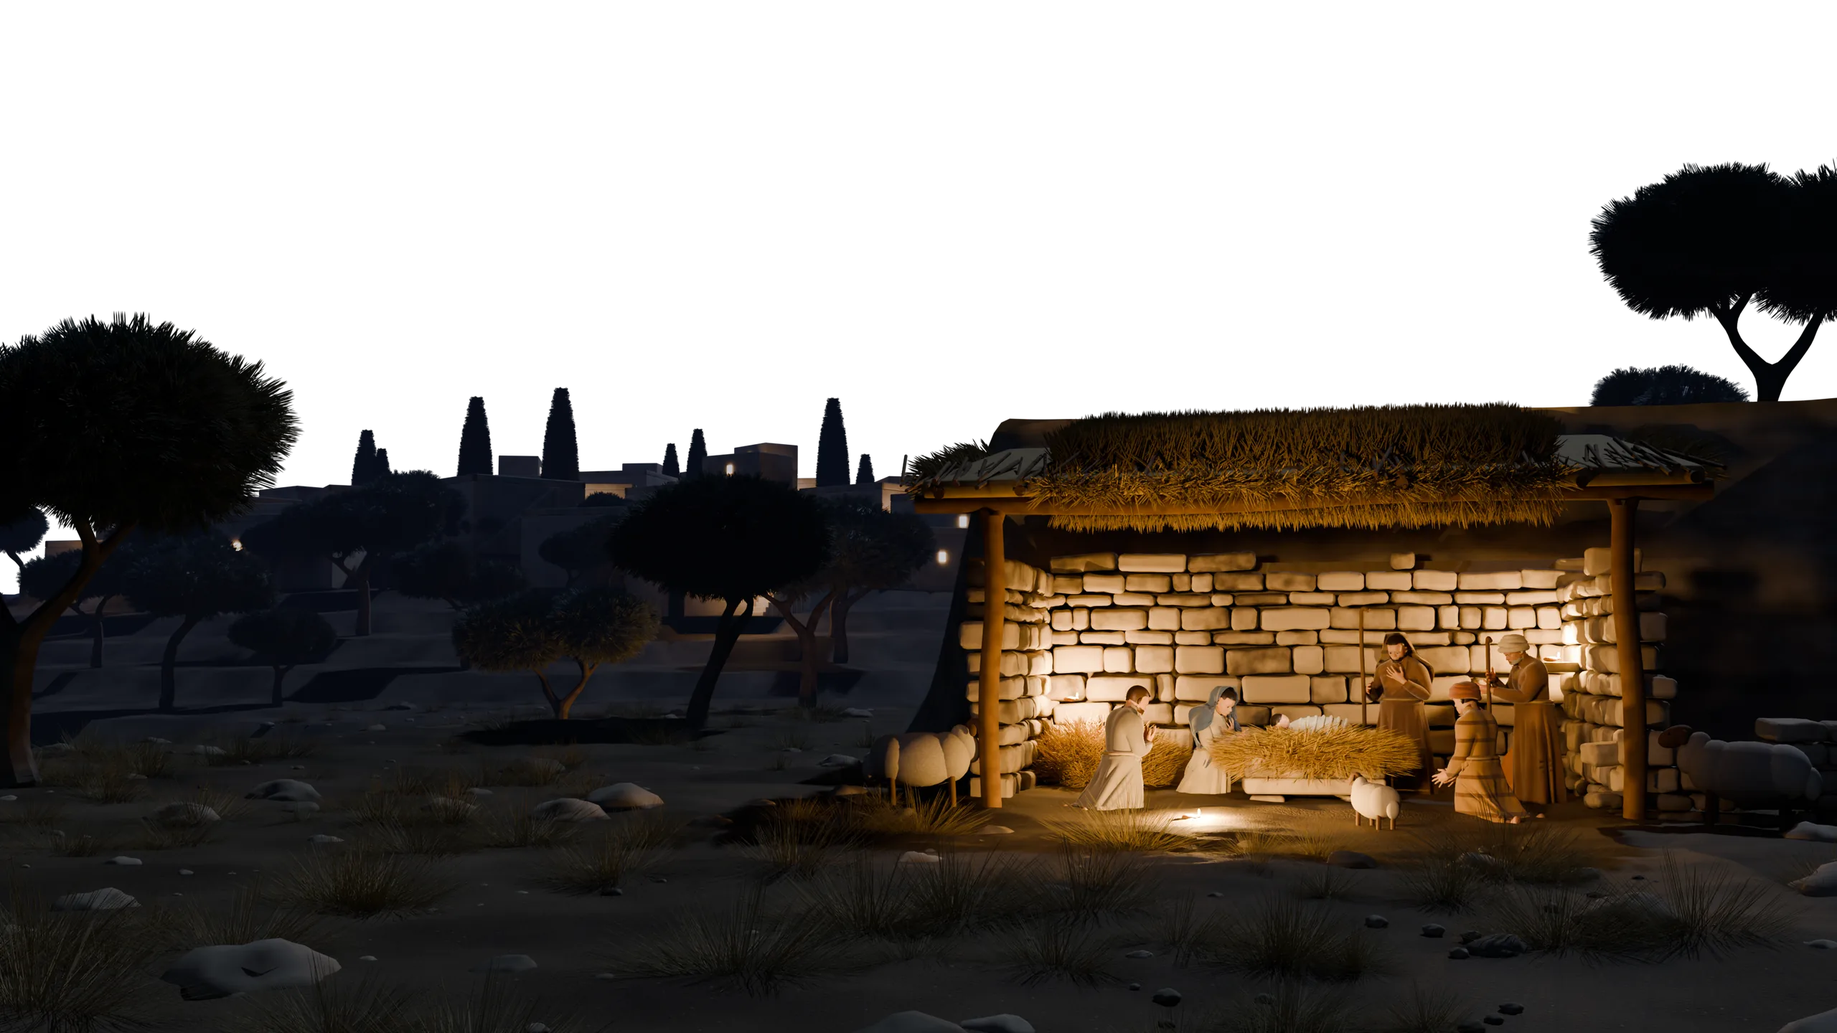
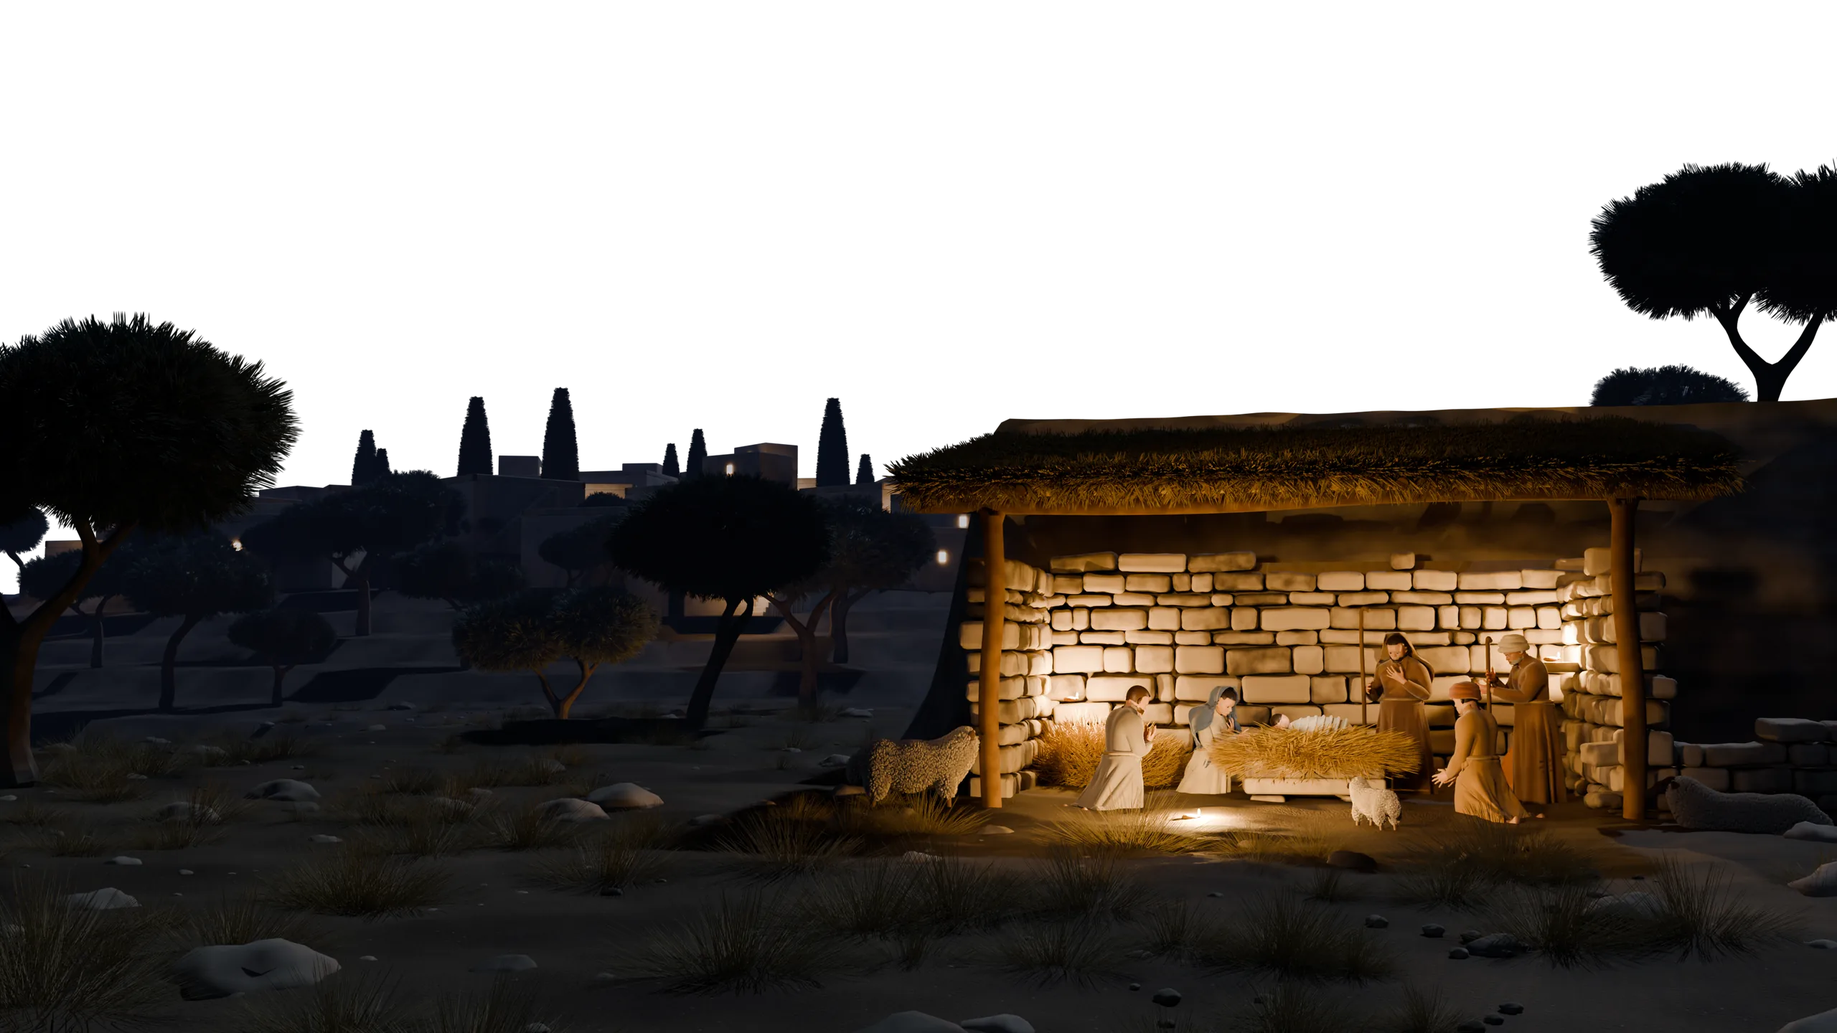
Nativity scene: real sheep with a fleece, a fully thatched roof, plain tunic for the boy
Sheep are remodelled in art/animals.py: blended body volumes, a proper head
with drooping ears, tapered legs and hooves, and a fleece of fine crimped,
clumped fibres. The shelter's roof is thatched over its whole area with reeds
laid down the slope and a fringe on every edge (before, only the middle was
covered). The boy's tunic loses its bold horizontal stripes.

diff --git a/art/animals.py b/art/animals.py
@@ -1,0 +1,225 @@
+"""Animals for the Nativity in countdown.py: Awassi sheep, the old fat-tailed breed of the region.
+
+Each sheep is modelled as a body (blended volumes for barrel, chest, rump, neck, the muscle at the
+top of each leg, and the broad tail), a separate head with a long convex nose and drooping ears,
+slim lower legs with hooves, and a real fleece: tens of thousands of fine, crimped fibres growing
+from the body, clumped into locks. Face and legs are brown and short-haired, as on the breed.
+
+Run on its own for a close look in plain light:
+    Blender -b --factory-startup -P art/animals.py -- art/build
+"""
+import os
+import random
+import sys
+
+sys.path.insert(0, os.path.dirname(os.path.abspath(__file__)))
+from common import *  # noqa: E402,F403
+
+
+def blended(name, parts, resolution=0.022):
+    """A smooth organic form from overlapping ellipsoids: (centre, radii) pairs that melt together."""
+    mb = bpy.data.metaballs.new(name)
+    mb.resolution = resolution
+    mb.render_resolution = resolution
+    mb.threshold = 0.6
+    for centre, radii in parts:
+        el = mb.elements.new(type="ELLIPSOID")
+        el.co = centre
+        el.radius = 2.0
+        el.size_x, el.size_y, el.size_z = (r / 2.0 * 1.28 for r in radii)
+        el.stiffness = 2.0
+    o = bpy.data.objects.new(name, mb)
+    bpy.context.collection.objects.link(o)
+    bpy.ops.object.select_all(action="DESELECT")
+    o.select_set(True)
+    bpy.context.view_layer.objects.active = o
+    bpy.ops.object.convert(target="MESH")
+    o = bpy.context.object
+    o.name = name
+    sm = o.modifiers.new("Smooth", "SMOOTH")
+    sm.factor = 0.8
+    sm.iterations = 8
+    for p in o.data.polygons:
+        p.use_smooth = True
+    xs = [v.co.x for v in o.data.vertices]
+    zs = [v.co.z for v in o.data.vertices]
+    print(f"[art] {name}: {len(o.data.vertices)} verts, x {min(xs):.2f}..{max(xs):.2f}, z {min(zs):.2f}..{max(zs):.2f}")
+    return o
+
+
+def fleece_material():
+    """Raw wool: cream, a little yellowed and dusty, each fibre slightly different."""
+    m = bpy.data.materials.get("Fleece") or principled("Fleece", (0.62, 0.56, 0.45), roughness=0.85, sheen=0.6)
+    if m.get("built"):
+        return m
+    nt = m.node_tree
+    info = nt.nodes.new("ShaderNodeHairInfo")
+    ramp = nt.nodes.new("ShaderNodeValToRGB")
+    ramp.color_ramp.elements[0].color = (0.33, 0.27, 0.19, 1)       # deep in the lock, and dirty
+    ramp.color_ramp.elements[1].color = (0.76, 0.7, 0.58, 1)        # the weathered tips
+    mix = nt.nodes.new("ShaderNodeMath")
+    mix.operation = "MULTIPLY_ADD"
+    mix.inputs[1].default_value = 0.3
+    nt.links.new(info.outputs["Random"], mix.inputs[0])
+    nt.links.new(info.outputs["Intercept"], mix.inputs[2])
+    nt.links.new(mix.outputs[0], ramp.inputs["Fac"])
+    nt.links.new(ramp.outputs["Color"], bsdf(m).inputs["Base Color"])
+    m["built"] = True
+    return m
+
+
+def hide_material(name, color):
+    """Short-haired hide (face, ears, legs)."""
+    m = bpy.data.materials.get(name)
+    if m:
+        return m
+    m = principled(name, color, roughness=0.7, sheen=0.5)
+    add_bump(m, scale=260.0, strength=0.25, detail=3.0)
+    return m
+
+
+def grow(obj, mat, count, length, children, thickness, crimp=0.0, clump=0.0, seed=1, spread=0.25):
+    """Fibres of a set length growing straight out of every face of `obj`; crimp, clumping and
+    a little roughness then give them the disorder of real wool or hair."""
+    if os.environ.get("ART_NOFUR"):
+        return
+    if mat.name not in [s.name for s in obj.material_slots]:
+        obj.data.materials.append(mat)
+    obj.modifiers.new("Fibres", "PARTICLE_SYSTEM")
+    ps = obj.particle_systems[-1]
+    ps.seed = seed
+    pt = ps.settings
+    pt.type = "HAIR"
+    pt.count = count
+    pt.hair_length = length
+    pt.hair_step = 5
+    pt.emit_from = "FACE"
+    pt.use_advanced_hair = False              # in this mode hair_length is the true length
+    pt.distribution = "RAND"
+    pt.child_type = "INTERPOLATED"
+    pt.rendered_child_count = children
+    pt.child_length = 1.0
+    pt.clump_factor = clump
+    pt.clump_shape = 0.2
+    pt.roughness_1 = length * 0.25 * spread
+    pt.roughness_1_size = 0.3
+    pt.roughness_2 = length * 0.12
+    pt.roughness_endpoint = length * 0.15 * spread
+    if crimp:
+        pt.kink = "CURL"
+        pt.kink_amplitude = crimp
+        pt.kink_frequency = 7.0
+    pt.root_radius = 1.0
+    pt.tip_radius = 0.45
+    pt.radius_scale = thickness
+    pt.material_slot = mat.name
+    obj.show_instancer_for_render = True
+
+
+def sheep(rng, lying=False, lamb=False):
+    """One Awassi sheep standing (or lying, legs folded under it), facing +x. Returns its root.
+    A lamb is small, leggy and short in the fleece."""
+    before = set(bpy.data.objects)
+    wool, face, hoof = fleece_material(), hide_material("SheepHide", (0.1, 0.055, 0.03)), hide_material("Hoof", (0.02, 0.016, 0.012))
+    eye = bpy.data.materials.get("SheepEyeDark") or principled("SheepEyeDark", (0.01, 0.008, 0.006), roughness=0.05, coat=1.0)
+    leg = 0.3 if not lamb else 0.37                 # lambs are all leg
+    z = 0.26 if lying else leg + 0.27               # height of the spine's centre line
+    k = 0.86 if lamb else 1.0                       # a lamb's barrel is slimmer
+
+    body = blended("SheepBody", [
+        ((0.0, 0, z), (0.36, 0.2 * k, 0.21 * k)),                   # barrel
+        ((0.0, 0, z - 0.07), (0.3, 0.18 * k, 0.16 * k)),            # belly
+        ((0.27, 0, z - 0.01), (0.19, 0.175 * k, 0.21 * k)),         # chest
+        ((0.33, 0, z + 0.06), (0.13, 0.13 * k, 0.15 * k)),          # shoulders / withers
+        ((-0.29, 0, z + 0.01), (0.2, 0.19 * k, 0.2 * k)),           # rump
+        ((0.39, 0, z + 0.1), (0.14, 0.125, 0.15)),                  # base of the neck: deep and thick
+        ((0.44, 0, z + 0.19), (0.11, 0.1, 0.11)),                   # neck
+        ((-0.47, 0, z - 0.06), (0.06, 0.075, 0.13)),                # the fat tail
+    ] + ([] if lying else [
+        ((0.28, sy * 0.105, z - 0.17), (0.07, 0.055, 0.13)) for sy in (-1, 1)        # forearm muscle
+    ] + [
+        ((-0.3, sy * 0.115, z - 0.15), (0.095, 0.06, 0.16)) for sy in (-1, 1)        # thigh
+    ]))
+    assign(body, wool)
+    grow(body, wool, 5200 if not lamb else 3800, 0.05 if not lamb else 0.028, 46, 0.0016, crimp=0.0035, clump=0.55,
+         seed=rng.randrange(999), spread=0.3)
+
+    # Head: long and narrow, with the convex "Roman" nose of the breed, carried a little low.
+    hx, hz = 0.52, z + 0.25
+    head = blended("SheepHead", [
+        ((hx, 0, hz), (0.078, 0.064, 0.07)),                        # skull
+        ((hx + 0.075, 0, hz - 0.03), (0.075, 0.05, 0.058)),         # bridge of the nose
+        ((hx + 0.145, 0, hz - 0.075), (0.055, 0.04, 0.045)),        # muzzle
+        ((hx + 0.18, 0, hz - 0.1), (0.032, 0.033, 0.03)),           # nose and lips
+        ((hx - 0.03, 0, hz - 0.04), (0.07, 0.055, 0.07)),           # jaw into the neck
+    ], resolution=0.011)
+    assign(head, face)
+    grow(head, face, 2600, 0.007, 22, 0.0012, seed=rng.randrange(999), spread=0.4)
+    for sy in (-1, 1):
+        # Ears: long, leaf-shaped, hanging down and out.
+        bpy.ops.mesh.primitive_uv_sphere_add(radius=1.0, location=(hx - 0.045, sy * 0.085, hz - 0.035), segments=20, ring_count=10)
+        ear = bpy.context.object
+        ear.name = "Ear"
+        ear.scale = (0.034, 0.011, 0.085)
+        ear.rotation_euler = (deg(sy * -38), deg(18), 0)
+        for p in ear.data.polygons:
+            p.use_smooth = True
+        assign(ear, face)
+        bpy.ops.mesh.primitive_uv_sphere_add(radius=0.0115, location=(hx + 0.055, sy * 0.049, hz - 0.002), segments=12, ring_count=8)
+        bpy.context.object.name = "SheepEye"
+        assign(bpy.context.object, eye)
+
+    def lower_leg(points):
+        cd = bpy.data.curves.new("Leg", "CURVE")
+        cd.dimensions = "3D"
+        cd.bevel_depth = 0.021
+        cd.bevel_resolution = 5
+        cd.use_fill_caps = True
+        sp = cd.splines.new("BEZIER")
+        sp.bezier_points.add(len(points) - 1)
+        for bp, (p, r) in zip(sp.bezier_points, points):
+            bp.co = p
+            bp.radius = r
+            bp.handle_left_type = bp.handle_right_type = "AUTO"
+        o = bpy.data.objects.new("Leg", cd)
+        bpy.context.collection.objects.link(o)
+        o.data.materials.append(face)
+        return o
+
+    if lying:
+        for sy in (-1, 1):                                          # forelegs folded back under the chest
+            lower_leg([((0.28, sy * 0.1, 0.08), 1.1), ((0.4, sy * 0.1, 0.04), 0.95), ((0.33, sy * 0.115, 0.03), 0.9)])
+    else:
+        for x, bend in ((0.28, 0.012), (-0.31, -0.03)):
+            for sy in (-1, 1):
+                lower_leg([((x, sy * 0.105, z - 0.2), 1.5), ((x + bend, sy * 0.105, leg * 0.55), 1.15),      # knee / hock
+                           ((x + bend * 0.2, sy * 0.105, leg * 0.2), 0.95), ((x + 0.006, sy * 0.105, 0.035), 1.05)])
+                bpy.ops.mesh.primitive_cone_add(vertices=12, radius1=0.027, radius2=0.022, depth=0.045, location=(x + 0.012, sy * 0.105, 0.02))
+                bpy.context.object.name = "Hoof"
+                assign(bpy.context.object, hoof)
+
+    root = bpy.data.objects.new("Sheep", None)
+    bpy.context.collection.objects.link(root)
+    for o in [o for o in bpy.data.objects if o not in before and o is not root]:
+        if o.parent is None:
+            o.parent = root
+    size = 0.56 if lamb else 1.0
+    root.scale = (size, size, size)
+    return root
+
+
+if __name__ == "__main__":
+    reset()
+    setup_render(res=900, samples=int(os.environ.get("ART_SAMPLES", 96)))
+    bpy.context.scene.render.resolution_x = 2200
+    rng = random.Random(4)
+    for i, (kind, yaw) in enumerate(((dict(), 20), (dict(lying=True), -25), (dict(lamb=True), 150), (dict(), -70))):
+        r = sheep(rng, **kind)
+        r.location = ((i - 1.5) * 1.35, 0, 0)
+        r.rotation_euler = (0, 0, deg(yaw))
+    shadow_catcher(size=20)
+    world(0.25, 0.27, 0.3, 1.0)
+    area_light("Key", (3, -5, 4), (0, 0, 0.5), 1400, 5, (1, 0.95, 0.9))
+    area_light("Fill", (-4, -4, 2), (0, 0, 0.5), 500, 5, (0.85, 0.9, 1))
+    camera((0, -6.6, 1.0), (0, 0, 0.45), lens=50)
+    render(os.path.join(out_dir(), "animals-test.png"))

diff --git a/art/countdown.py b/art/countdown.py
@@ -18,6 +18,7 @@ import sys
 
 sys.path.insert(0, os.path.dirname(os.path.abspath(__file__)))
 from common import *  # noqa: E402,F403
+import animals  # noqa: E402  (the sheep)
 import figures  # noqa: E402  (Mary, Joseph and the shepherds)
 
 from mathutils import Euler, Matrix, noise  # noqa: E402
@@ -525,19 +526,64 @@ def shelter(mats, rng):
         x = -W / 2 - 0.2 + (W + 0.4) * i / (n - 1) + rng.uniform(-0.08, 0.08)
         tube("Rafter", [(x, front - 0.55 - rng.uniform(0, 0.25), ROOF + 0.02), (x + rng.uniform(-0.05, 0.05), (front + back) / 2, ROOF + 0.36),
                         (x, back + 0.35, ROOF + 0.66)], 0.045, mats["timber"])
-    # Brushwood and reed laid over the rafters.
+    # Reed thatch over the whole roof: a bed of brushwood on the rafters, then reeds laid down
+    # the slope in overlapping courses, their ends hanging over the eaves on every side.
     cy, cz = (front + back) / 2 - 0.1, ROOF + 0.45
     slope = math.atan2(0.62, back - front)
-    roof = cube("Thatch", (W + 0.7, back - front + 1.0, 0.16), (0, cy, cz), bevel=0.06)
-    smooth(roof, subsurf=1)
-    turn(roof, (0, cy, cz), (slope, 0, 0))
-    assign(roof, mats["thatch"])
-    strands(roof, mats["thatch"], 34000, 0.3, seed=4, children=3, thickness=0.014, random_dir=0.5)
-    for i in range(80):
-        x = rng.uniform(-W / 2 - 0.5, W / 2 + 0.5)
-        y0 = front - 0.5 - rng.uniform(0.0, 0.45)
-        tube("Brush", [(x, y0, ROOF + 0.08 + rng.uniform(-0.05, 0.03)), (x + rng.uniform(-0.2, 0.2), y0 + rng.uniform(0.9, 1.8), ROOF + 0.42)],
-             rng.uniform(0.008, 0.02), mats["timber"], resolution=3)
+    rw, rd = W + 0.9, back - front + 1.1
+    bed = cube("ThatchBed", (rw, rd, 0.14), (0, cy, cz), bevel=0.05)
+    turn(bed, (0, cy, cz), (slope, 0, 0))
+    assign(bed, mats["thatch"])
+    nx, ny = 60, 36
+    verts, faces = [], []
+    for j in range(ny + 1):
+        for i in range(nx + 1):
+            verts.append((-rw / 2 + rw * i / nx, -rd / 2 + rd * j / ny, 0.09 + 0.02 * noise.noise(Vector((i * 0.35, j * 0.35, 2.0)))))
+    for j in range(ny):
+        for i in range(nx):
+            a_ = j * (nx + 1) + i
+            faces.append((a_, a_ + 1, a_ + nx + 2, a_ + nx + 1))
+    reeds = mesh_object("Thatch", verts, faces)
+    reeds.location = (0, cy, cz)
+    reeds.rotation_euler = (slope, 0, 0)
+    assign(reeds, mats["thatch"])
+    reeds.modifiers.new("Reeds", "PARTICLE_SYSTEM")
+    pt = reeds.particle_systems[0].settings
+    pt.type = "HAIR"
+    pt.count = 52000
+    pt.hair_length = 0.75
+    pt.emit_from = "FACE"
+    pt.distribution = "RAND"                       # evenly over every part of the roof
+    pt.use_advanced_hair = True
+    pt.normal_factor = 0.012                       # lying almost flat ...
+    pt.object_align_factor = (0.0, -0.1, 0.0)      # ... pointing down the slope to the front eave
+    pt.factor_random = 0.022
+    pt.child_type = "SIMPLE"
+    pt.rendered_child_count = 4
+    pt.child_radius = 0.05
+    pt.root_radius, pt.tip_radius, pt.radius_scale = 1.0, 0.6, 0.011
+    pt.material_slot = mats["thatch"].name
+    reeds.data.materials.append(mats["straw"])
+    # A looser fringe along the eaves and gable ends.
+    fringe = reeds.modifiers.new("Fringe", "PARTICLE_SYSTEM")
+    edge = [v.index for v in reeds.data.vertices if abs(v.co.x) > rw / 2 - 0.25 or abs(v.co.y) > rd / 2 - 0.25]
+    reeds.vertex_groups.new(name="Edge").add(edge, 1.0, "REPLACE")
+    reeds.particle_systems[1].vertex_group_density = "Edge"
+    pf = reeds.particle_systems[1].settings
+    pf.type = "HAIR"
+    pf.count = 9000
+    pf.hair_length = 0.5
+    pf.emit_from = "FACE"
+    pf.distribution = "RAND"
+    pf.use_advanced_hair = True
+    pf.normal_factor = 0.02
+    pf.factor_random = 0.06
+    pf.object_align_factor = (0.0, -0.04, -0.03)
+    pf.child_type = "SIMPLE"
+    pf.rendered_child_count = 3
+    pf.child_radius = 0.05
+    pf.root_radius, pf.tip_radius, pf.radius_scale = 1.0, 0.6, 0.011
+    pf.material_slot = mats["thatch"].name
     # Trodden earth and straw underfoot, a heap of hay in the corner.
     floor = sphere("Floor", 1.0, (0, 0.75, -0.02), scale=(W / 2 + 0.3, 2.1, 0.05), segments=48)
     assign(floor, mats["earth"])
@@ -627,49 +673,6 @@ def house(mats, rng, w, d, h):
 # ---------------------------------------------------------------------------
 # Animals
 # ---------------------------------------------------------------------------
-
-def sheep(mats, rng, lying=False, lamb=False):
-    """An Awassi sheep, the old breed of the region: cream fleece, brown face and legs, drooping
-    ears, a broad fat tail. Returns the root object it hangs from."""
-    before = set(bpy.data.objects)
-    z0 = 0.24 if lying else 0.6
-    tex = bpy.data.textures.get("WoolLumps") or bpy.data.textures.new("WoolLumps", "CLOUDS")
-    tex.noise_scale = 0.06
-    tex.noise_depth = 2
-
-    def woolly(name, radius, loc, scale, tilt=0.0):
-        o = sphere(name, radius, loc, scale=scale, segments=48)
-        o.rotation_euler = (0, deg(tilt), 0)
-        lumps = o.modifiers.new("Wool", "DISPLACE")
-        lumps.texture = tex
-        lumps.strength = 0.045
-        lumps.mid_level = 0.4
-        assign(o, mats["wool"])
-        return o
-
-    woolly("Body", 1.0, (0, 0, z0), (0.4, 0.215, 0.225))
-    woolly("Chest", 1.0, (0.22, 0, z0 + 0.02), (0.2, 0.19, 0.21))
-    woolly("Rump", 1.0, (-0.24, 0, z0 + 0.01), (0.19, 0.2, 0.2))
-    woolly("Neck", 1.0, (0.37, 0, z0 + 0.13), (0.11, 0.1, 0.17), tilt=-28)
-    woolly("Tail", 1.0, (-0.42, 0, z0 - 0.07), (0.07, 0.085, 0.12))
-    hx, hz = 0.5, z0 + 0.25
-    head = sphere("Head", 1.0, (hx, 0, hz), scale=(0.135, 0.07, 0.078), segments=24)
-    head.rotation_euler = (0, deg(24), 0)
-    assign(head, mats["sheep_face"])
-    for sy in (-1, 1):
-        ear = sphere("Ear", 0.045, (hx - 0.07, sy * 0.082, hz + 0.0), scale=(0.75, 0.3, 1.45), segments=12)
-        ear.rotation_euler = (deg(sy * 30), 0, 0)
-        assign(ear, mats["sheep_face"])
-        assign(sphere("SheepEye", 0.012, (hx + 0.035, sy * 0.058, hz + 0.02), segments=8), mats["dark"])
-    if lying:
-        for sy in (-1, 1):                                              # forelegs folded under the chest
-            tube("Leg", [(0.2, sy * 0.1, 0.07), (0.36, sy * 0.11, 0.05), (0.3, sy * 0.13, 0.03)], 0.03, mats["sheep_face"], resolution=4)
-    else:
-        for x in (-0.25, 0.25):
-            for sy in (-1, 1):
-                tube("Leg", [(x, sy * 0.1, z0 - 0.1), (x + 0.012, sy * 0.1, 0.24), (x, sy * 0.1, 0.0)], 0.03, mats["sheep_face"], resolution=4)
-    return group(new_objects(before), scale=0.6 if lamb else 1.0)
-
 
 def with_children(root):
     return [root] + [o for o in bpy.data.objects if o.parent is not None and (o.parent is root or o.parent.parent is root)]
@@ -784,9 +787,9 @@ def land():
 
     # Sheep come in with the shepherds: a lamb near the manger, two ewes at the edge.
     for kind, loc, yaw in ((dict(lamb=True), (0.55, -1.5, 0.0), 118),
-                           (dict(), (-3.1, -0.9, 0.0), 12),
-                           (dict(), (3.25, -1.25, 0.0), 158)):
-        root = sheep(mats, rng, **kind)
+                           (dict(), (-3.15, -1.0, 0.0), 14),
+                           (dict(lying=True), (3.2, -1.45, 0.0), 162)):
+        root = animals.sheep(rng, **kind)
         root.location = loc
         root.rotation_euler = (0, 0, deg(yaw))
 
@@ -854,7 +857,7 @@ def land():
     # --- The shepherds' watch fire, out in the fields ------------------------------
     rng = random.Random(6)
     group(watch_fire(mats, rng), (FIRE.x, FIRE.y, FIRE_LEVEL))
-    flock = [into_collection(with_children(sheep(mats, rng, lying=lying)), f"Flock{i}") for i, lying in enumerate((False, True))]
+    flock = [into_collection(with_children(animals.sheep(rng, lying=lying)), f"Flock{i}") for i, lying in enumerate((False, True))]
     for i in range(14):
         a, r = rng.uniform(0, 6.28), rng.uniform(2.2, 7.5)
         x, y = FIRE.x + r * math.cos(a), FIRE.y + r * math.sin(a)

diff --git a/art/figures.py b/art/figures.py
@@ -722,7 +722,7 @@ def figure_materials():
         "wool_cream": cloth_material("WoolCream", (0.62, 0.55, 0.42), stripe=(0.16, 0.1, 0.06)),
         "wool_blue": cloth_material("WoolBlue", (0.07, 0.12, 0.24)),
         "wool_brown": cloth_material("WoolBrown", (0.19, 0.1, 0.05)),
-        "wool_ochre": cloth_material("WoolOchre", (0.38, 0.23, 0.09), stripe=(0.12, 0.06, 0.03)),
+        "wool_ochre": cloth_material("WoolOchre", (0.38, 0.23, 0.09)),          # plain: bold stripes read as a costume
         "wool_grey": cloth_material("WoolGrey", (0.2, 0.18, 0.15)),
         "wool_rust": cloth_material("WoolRust", (0.3, 0.11, 0.05)),
         "wool_dark": cloth_material("WoolDark", (0.1, 0.075, 0.055), stripe=(0.3, 0.24, 0.16)),

diff --git a/AGENTS.md b/AGENTS.md
@@ -20,7 +20,7 @@ If `bash init.sh` fails, fixing it **is** the task.
 | App | Static, single-page, vanilla JS — `index.html` + `script.js` + `style.css`. No build step, no backend, no database. |
 | Data | Browser only. `localStorage` keys `giftExchange.participants` (versioned JSON `{version:1, participants:[{firstName,lastName,familyGroup,wishlist}]}` — reuse it for new features), `giftExchange.coreFamilies`, `giftExchange.theme`, `giftExchange.badSanta` (saved Bad Santa game), `giftExchange.showBadSanta` (`'true'` shows Bad Santa; hidden by default), `giftExchange.tourSeen` (`'1'` once the guided tour was finished, skipped or declined), `giftExchange.music` (`'off'` turns background music off), `giftExchange.guaranteedMatches` (the Settings box as typed, one `Giver -> Receiver` per line; `GiftExchangeService.setFixedPairs` makes those givers always buy for those receivers, over the family and last-year rules). Names/wishlists never leave the browser. |
 | Analytics | Google Analytics 4 via `AnalyticsService` in `script.js` (owner decision 2026-11-17). Loads the Google tag script only when `GA_MEASUREMENT_ID` is set (`GTM-MF62QPXB`, reporting to GA4 property `G-PE51JMC1XH`) **and** the page is on `zacharlan.github.io`; never on localhost or in tests. Sends a page view plus `draw_names` (count, theme), `share` (copy/email/print), `tour_start`, `countdown_open`, `theme_change`. Only events, parameters and values on its allowlist can be sent, so never names, wishlists or family groups. |
-| Art | Blender 5.2 (Cycles) scene scripts in `art/` → `art/post.py` (Pillow) → `assets/*.webp`. Rebuild: `bash art/render.sh` (or name scenes: `bash art/render.sh countdown`; `post.py` only rebuilds the scenes named, so a stale render in `art/build` cannot replace live art). The countdown's people (`art/figures.py`: Mary, Joseph, three shepherds) start from Blender Studio's CC0 *Human Base Meshes*, which `art/render.sh` downloads to `~/Library/Caches/giftexchange-art` (not in the repo); they are posed, dressed with simulated cloth and cached in `art/build/nativity-figures.blend`. |
+| Art | Blender 5.2 (Cycles) scene scripts in `art/` → `art/post.py` (Pillow) → `assets/*.webp`. Rebuild: `bash art/render.sh` (or name scenes: `bash art/render.sh countdown`; `post.py` only rebuilds the scenes named, so a stale render in `art/build` cannot replace live art). The countdown's sheep are modelled in `art/animals.py` (run it alone for a close-up test render). Its people (`art/figures.py`: Mary, Joseph, three shepherds) start from Blender Studio's CC0 *Human Base Meshes*, which `art/render.sh` downloads to `~/Library/Caches/giftexchange-art` (not in the repo); they are posed, dressed with simulated cloth and cached in `art/build/nativity-figures.blend`. |
 | Runtime (dev) | Node ≥ 18 (developed on 26), npm 11 |
 | Dev server | `scripts/serve.js` (zero-dependency) → http://localhost:8085, `GET /health` → `{"status":"ok"}` |
 | Unit tests | Jest 30 + jsdom (`tests/unit/`, `tests/architecture/`) |
